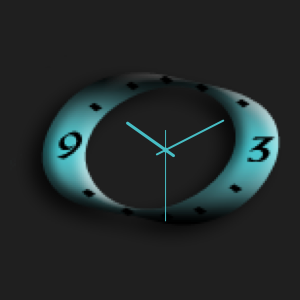
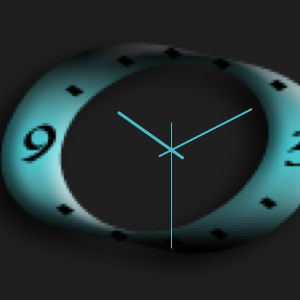
Normalize screenshot sizes using fill scaling

Changed region(s): [[0.42, 0.18, 1.0, 0.87], [0.0, 0.18, 0.6, 0.81], [0.48, 0.15, 0.6, 0.21]]

diff --git a/Tools/generate_screenshots.swift b/Tools/generate_screenshots.swift
@@ -118,9 +118,9 @@ func renderSkin(skinName: String, skinsDir: URL, outputDir: URL,
     ctx.setFillColor(red: bgR, green: bgG, blue: bgB, alpha: 1)
     ctx.fill(CGRect(x: 0, y: 0, width: sz, height: sz))
 
-    // Scale + position face
+    // Scale to fill the square canvas (crop long dimension if non-square)
     let available = CGFloat(sz) - PAD * 2
-    let scale = available / max(imgW, imgH)
+    let scale = available / min(imgW, imgH)
     let drawW = imgW * scale, drawH = imgH * scale
     let ox = CGFloat(sz) / 2 - drawW / 2
     let oy = CGFloat(sz) / 2 - drawH / 2